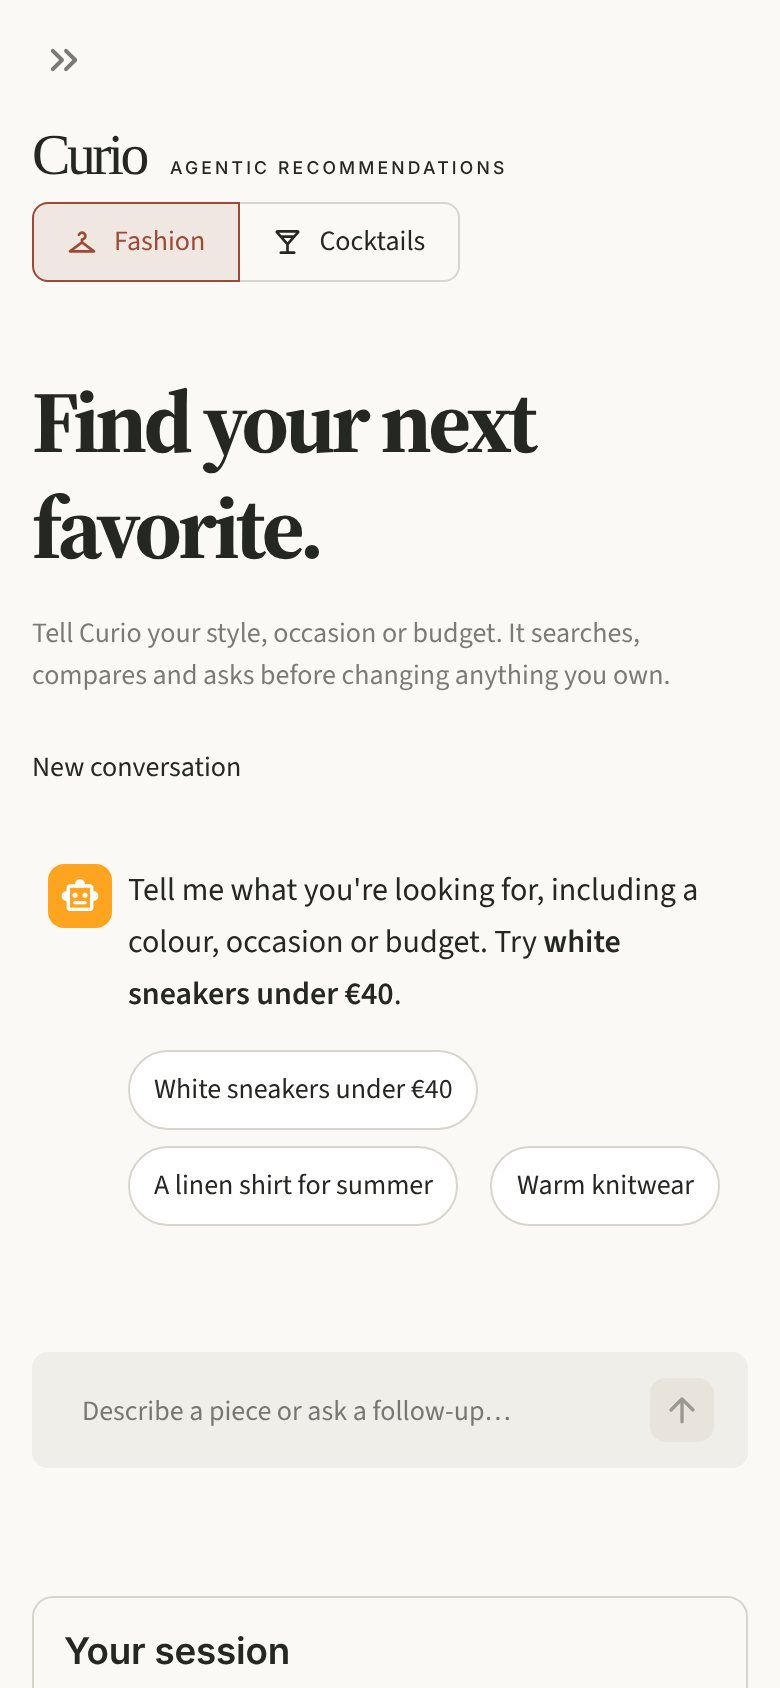
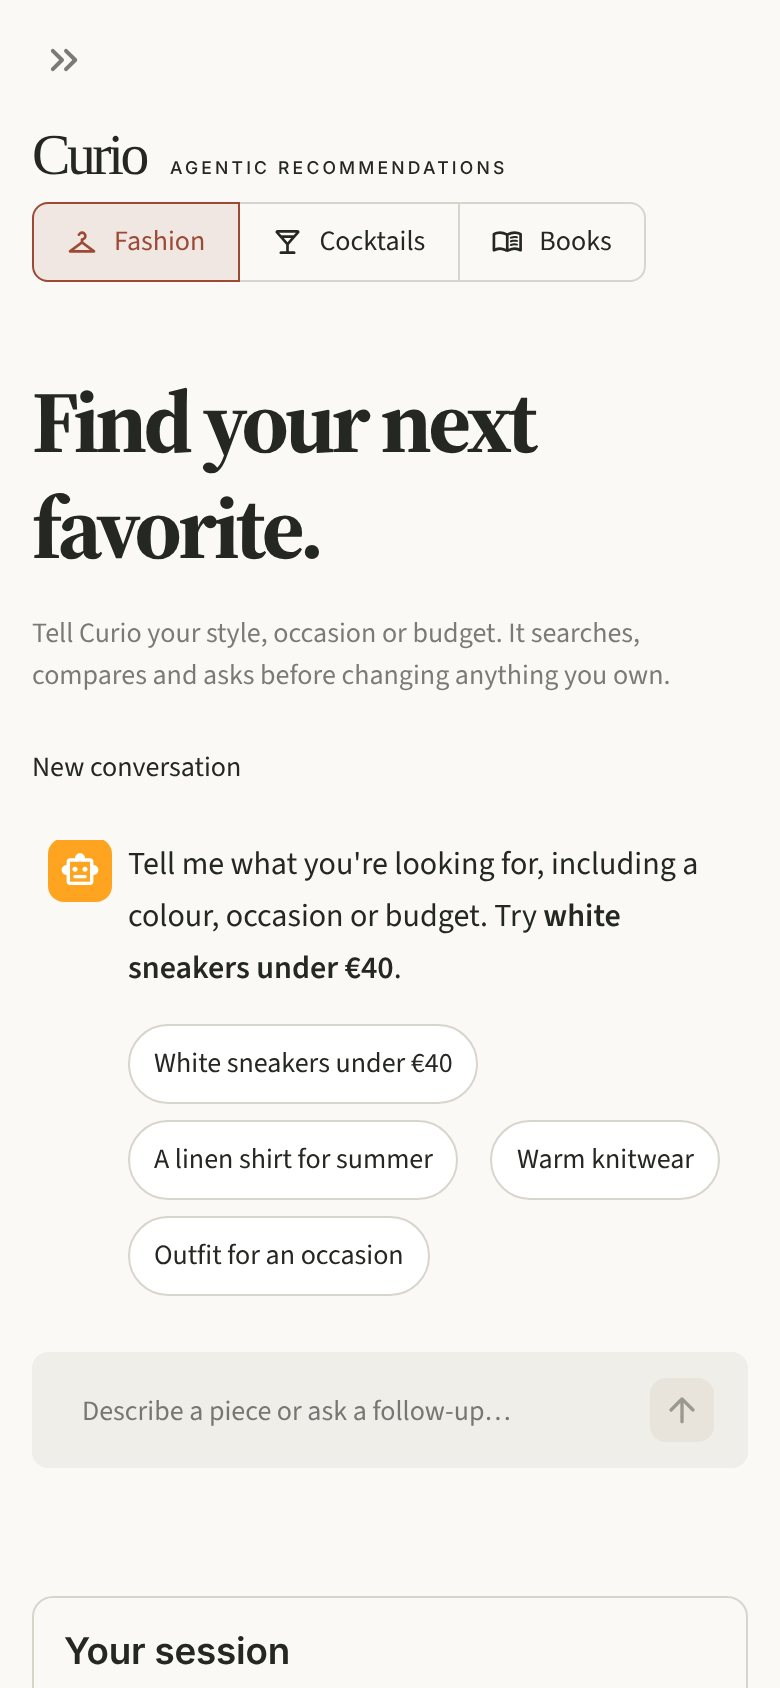
docs(readme): add the architecture diagram, engineering highlights and fresh screenshots
Claude-Session: https://claude.ai/code/session_012CnWACrFmk7qQrZCKrmwQe

Changed region(s): [[0.0615, 0.4929, 0.8923, 0.7701], [0.6154, 0.6777, 0.9231, 0.7085], [0.6154, 0.1232, 0.7692, 0.154]]

diff --git a/README.md b/README.md
@@ -18,6 +18,37 @@ changing your shortlist or memory, and checks its answer against what the tools 
 
 ![Personalized fashion picks with the evidence behind each one](docs/screenshots/curio-fashion.jpg)
 
+Try it in one command, no large download: `docker compose --profile demo up --build`
+([quick start](#quick-start)).
+
+## Engineering highlights
+
+![Architecture: clients, FastAPI, the shared agent engine and one toolkit per domain](docs/architecture.svg)
+
+- **One agent engine, three domains.** Fashion, cocktails and books plug into the same
+  plan → act → verify loop through a typed `Toolkit` protocol. Adding the books domain needed
+  no change to the loop.
+- **Human in the loop.** Tools are policy-gated as read, ask or approve. State changes
+  become HMAC-signed proposals bound to the tool, arguments, request and time. You can approve
+  or narrow them, but never widen or replay them across domains.
+- **Grounded answers.** Every price, ID, rating and catalog title in an answer is checked
+  against what the tools returned. A failed check gets one self-correction, then a
+  deterministic fallback, and the result is shown in the UI.
+- **Bounded and observable.** Each turn allows at most five tool calls and 90 seconds, and
+  every step streams to the UI as NDJSON.
+- **Stateless server.** The client holds the shortlist, memory and outfit. Client-held text
+  is display-only and never treated as evidence.
+- **Real recommenders.** Fashion uses CLIP and Qdrant search, co-purchase and graph
+  recommenders and a learned ranker evaluated on a holdout. Books use item-item
+  collaborative filtering from about 6 million ratings, with author and series diversity
+  caps. The outfit builder spreads a total budget across slots, using co-purchase
+  coherence.
+- **Reproducible data.** Every dataset is downloaded from a pinned commit and checked by
+  SHA-256. The server runs any subset of prepared domains and explains what is missing.
+- **Tested like a product.** About 1,000 offline tests plus a browser end-to-end suite of
+  more than 50 tests. It runs real uvicorn and Streamlit in Chromium on real data, with a
+  scripted OpenAI-compatible LLM. CI also boots the quick-start stack.
+
 ## Ask Curio
 
 Describe what you want, set a budget, then refine your search or compare items. In
